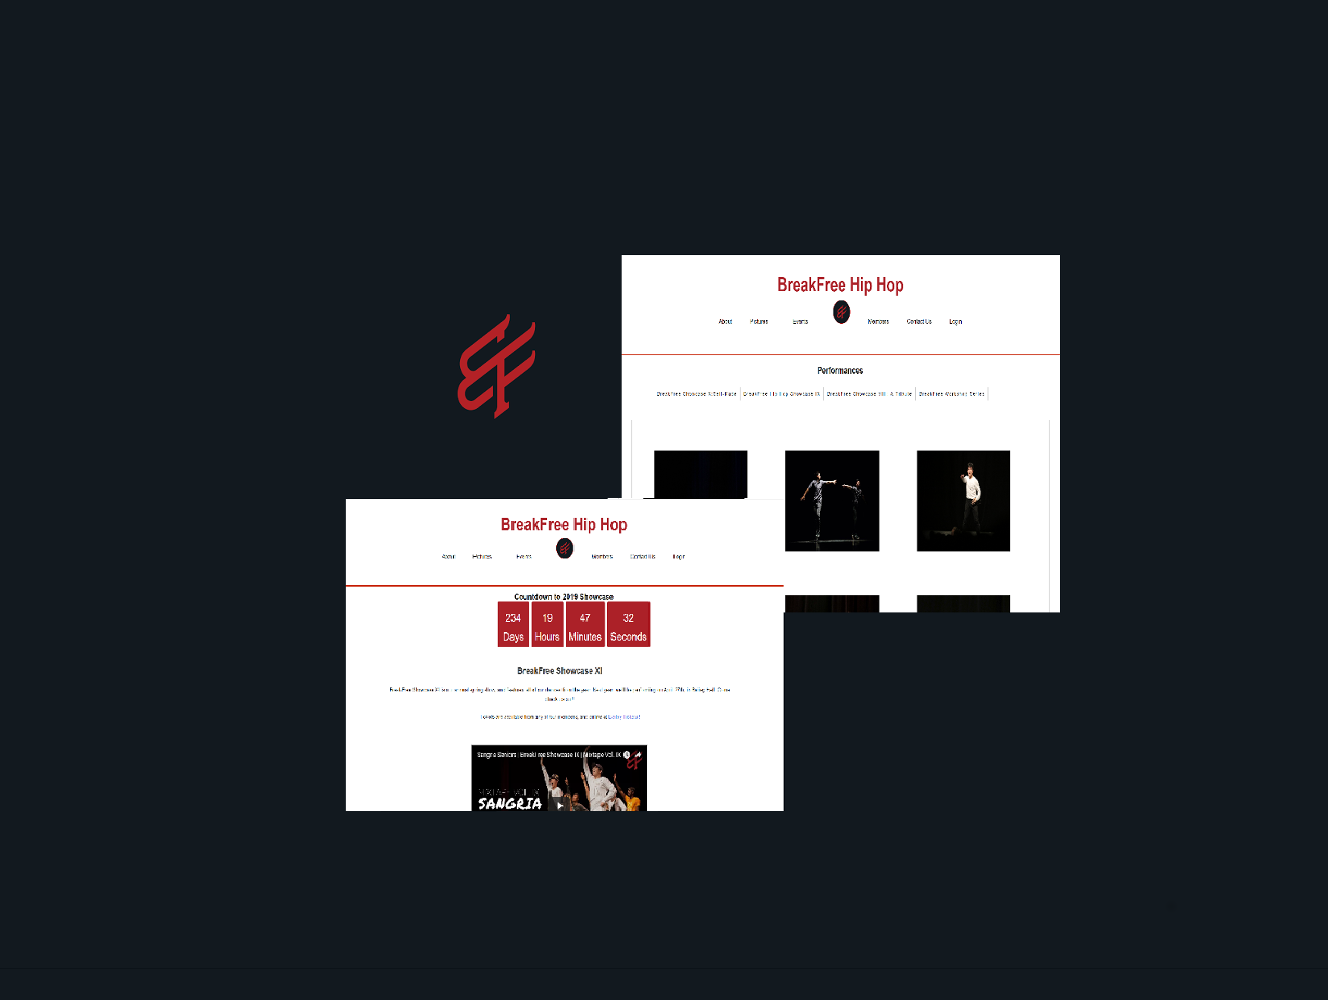
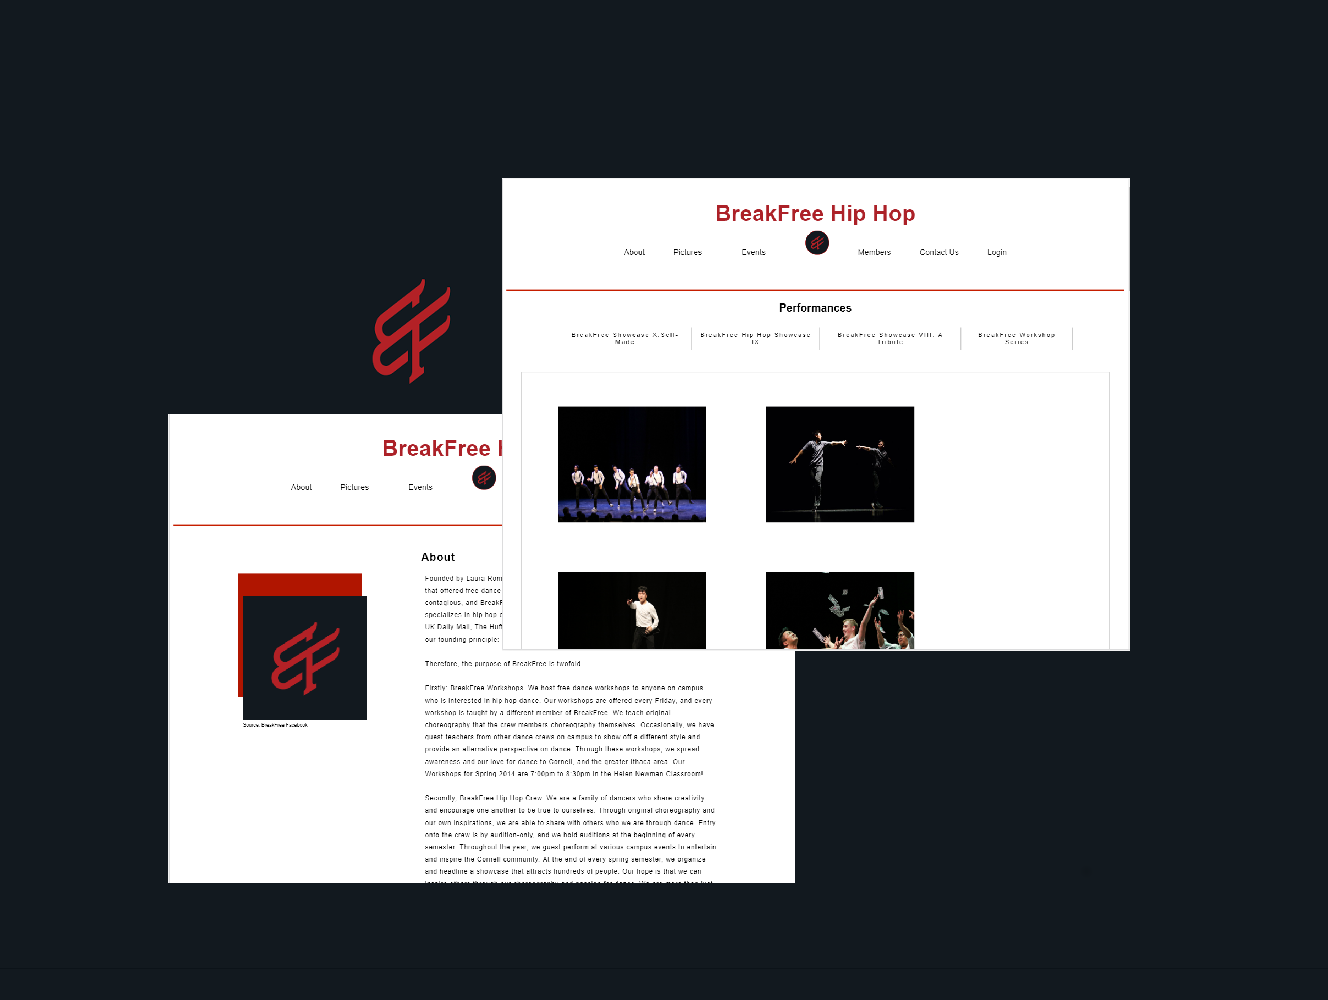
changes

Changed region(s): [[0.1235, 0.155, 0.8645, 0.899]]

diff --git a/bizbuzz.html b/bizbuzz.html
@@ -49,17 +49,21 @@
 								<strong>Timeline:</strong> September 2017- December 2017
 							</p>
 							<p>
-								<strong>Overview:</strong>
-
+								<strong>Overview:</strong> Local businesses in Ithaca wish to connect with others in the area for mentorship, collaboration, and companionship, but struggle to do so.
+								General disconnect among and lack of mentorship for local Ithaca businesses owners motivated us to create the platform for business owners and employees to connect in a meaningful and personal manner.
+								As a result, the app would: <br/> <br/>
+ 								- Help connect business owners in the local Ithaca community so they are able to share their experiences with each other. <br/>
+								-	Establish a platform that allows for increased efficiency in communication for local businesses. <br/>
+								-	Provide a forum for local business issues to be easily recognized and addressed by the community.
 							</p>
 							<section>
 								<header>
 									<h3>Problem</h3>
 								</header>
 								<p>
-                  Cornell students and Ithaca local businesses have experienced a growing divide filled with negative sentiments. Despite occupying the same small town,
-                  there seems to be little to no interaction between the two communities which is detrimental to both. Students tend to stay in their own
-                  bubble around campus and in Collegetown when local businesses such as store owners, restaurant owners, craftsmen and even farmers have so much to offer.
+	                Local businesses are a huge community within Ithaca but despite occupying the same small town,
+                  there seems to be little to no interaction between the businesses, which is detrimental to business opportunities and open communications. Local businesses such as store owners,
+									restaurant owners, craftsmen and even farmers have so much to offer, but lack a way to do so.
 								</p>
 							</section>
               <section>
@@ -68,18 +72,102 @@
                 </header>
                 <p>
                   To help us understand the points of the opportunity of intervention in the current state of how local businesses operate, we conducted interviews with local business owners
-                  and students and mapped out some key findings. From these findings, we realized that our target audiences were too wide and in order to make a more significant impact on our design,
-                  we had to narrow down our audience to only business owners.
-                <img class="image featured" src="images/bizbuzz_socialmodel.png" alt="" />
+                  and mapped out some key findings. From these findings, we found out main goals that local business owners are seeking from their business.
+                <img class="image featured" src="images/bizbuzz_affinity.png" alt="" />
               </section>
+							<section>
+                <header>
+                  <h3>Persona</h3>
+                </header>
+                <p>
+									Brenda is 35 years old, married and lives in Downtown, Ithaca. She co-owns a local Asian fusion restaurant along with her husband. They have been in this business for roughly 6 years now.
+									Although her area of expertise is Chinese cuisine, she loves cooking, experimenting with and learning new and different cuisines. Neither have any formal culinary or business education and most of their
+									expertise comes from experience and occasional inputs from friends and colleagues. Her husband and she take care of most of the aspects of their business on their own. Once in awhile during holidays and  festival season,
+									they find it necessary to hire a couple of temporary help. Although they are familiar with the use of technology, they don’t prefer it much since usually the learning curve is high and the value addition isn’t much.
 
-							<p>
-								Stay Tuned... <br/>
-								Full details on this project are on the way!
-							</p>
+									<br/><br/>
+									Behavior:<br/>
+									- Particular about food she serves<br/>
+									- Loves to talk with her customers and learn about their preferences
+									<br/><br/>
+									Goals:<br/>
+									- Improve work efficiency and saving money<br/>
+									- Hopes to communciate with other local businesses to collaborate<br/>
+									- Cater and adapt to customers' needs
+								</p>
+              </section>
+							<section>
+                <header>
+                  <h3>Ideation</h3>
+                </header>
+                <p>
+									We decided we wanted to create something that helped business owners engage with each other. This seemed like a large problem we heard about in our first round of user interviews.
+									When asked what stood out the most, everyone agreed on the combined ideas of bulk ordering and waste management. We wanted our design to allow for business owners to collaborate, as they said they wanted,
+									and we recognized that any collaboration tool would be more likely to be used if it had a profit motive attached to it. We also decided on creating a website as we wanted to reach all demographics of the business owners.
+									It was also said in the interview that business owners aren’t tech savvy. We used this to decide that a website would be more widely used. We then went into sketching a new design.
+								</p>
+								<img class="image featured" src="images/bizbuzz_draft.png" alt="" />
+								<p>Our first draft design included a chat section, a bulk order section, and a surplus section as the main features. Additionally, we included a preferred sellers section (to keep seller/supplier information in one section) and an analytics section that would should business owners how much money they have saved over time. All of these features combine to allow business owners to bulk order together, saving money, and give away their surplus of materials to each other, reducing waste and creating a collaborative community. Additionally, the chat feature will automatically show local businesses and their associated owners that are nearby, so that business owners can communicate and mentor each other.
+								</p>
+              </section>
+							<footer>
+								<a href="https://drive.google.com/a/cornell.edu/file/d/0B6L5AOxC-um4cWxRdTRhcGtCWEE/view?usp=sharing" class="button">Paper Prototype</a>
+							</footer>
+							<section>
+                <header>
+                  <h3>User Feedback</h3>
+                </header>
+                <p>
+									We conducted 3 user feedback interviews and these were our key findings:
+									<br/><br/>
+									- The bulk ordering and surplus features of our business coordination website do not address tangible needs to the user group. <br/>
+									- Businesses in the interviews, as a whole, liked the idea of mentorship between businesses. <br/>
+									- Businesses want to connect with who they want and about what they want in a quick and easy manner.
+								</p>
+              </section>
+							<section>
+                <header>
+                  <h3>Iteration</h3>
+                </header>
+                <p>
+									We designed our mid-fidelity prototype to be a website using Balsamiq. We named our website “BizConnect” in hopes of helping local businesses to build connections with each other and to get engaged within the local community. Since we believed that communication is the best way to build connections, we designed our prototype to be a platform that provides different channels for business conversations in various context. We made the design choice of adopting the most commonly-seen messenger interface to make our design more intuitive and user-friendly. While keeping the chat interface consistent across the different chat channels, we implemented three main features in this prototype to support the following three primary tasks:
+								</p>
+								<p>
+									- Chat Within
+								</p>
+								<img class="image featured" src="images/bizbuzz_b1.png" alt="" />
+								<p>
+									- Chat a Mentor
+								</p>
+								<img class="image featured" src="images/bizbuzz_b2.png" alt="" />
+								<p>
+									- Chat Locally
+								</p>
+								<img class="image featured" src="images/bizbuzz_b3.png" alt="" />
+              </section>
+							<section>
+                <header>
+                  <h3>Heuristic Evaluation</h3>
+                </header>
+                <p>
+									From our heuritstic evaluations, these were the biggest issues with out Balsamiq prototype.
+								</p>
+								<img class="image featured" src="images/bizbuzz_heuristic.png" alt="" />
+              </section>
+							<section>
+                <header>
+                  <h3>Final Iteration</h3>
+                </header>
+                <p>
+									From the Balsamiq prototype to the Invision prototype, we took into consideration our heuristic evaluations. More specifically, we focused mostly on the higher severity problems.
+									Furthermore, we focused on solutions that would help accomplish the main user tasks needed to highlight functionality for user evaluations. Another round of user testing was
+									done to evaluate our design. In total, many edits to the Invision prototype was done to create this final version.
+								</p>
+              </section>
               <footer>
 								<a href="https://projects.invisionapp.com/share/M9EBQ3F7A" class="button">Live Demo</a>
 							</footer>
+
 						</article>
 						<hr />
 						<!-- <div class="row">

diff --git a/elevate.html b/elevate.html
@@ -54,7 +54,7 @@
 								hospitality soution that deliver a frictionless or personalized experience or harness data and use products to
 								deliver meaningful solutions for guests. This prompted us to tailor travel directly at the customer’s preferences:
 								innovations that deliver personalization are priceless.
-
+								<br/><br/>
 								Since I was one of few designers on the team, I was able to touch almost every part of the product and have my designs realized and executed.
 								It was a really special experience working so closely with the team under a fixed time schedule and learning from the other designers to come
 								up with a final design concept that all of us were proud of.
@@ -64,9 +64,20 @@
 									<h3>Persona</h3>
 								</header>
 								<p>
-									Cathy is a student from San Francisco, California. She loves to travel. She’s never been to Vancouver, Canada but has always been interested in North American culture
- 									and has heard that Vancouver is one of the most beautiful cities. When she visits, she wants to learn to live like a Vancouverite and do what Vancouver people do everyday;
-									she wants to be fully immersed in Vancouver culture. She searched on Google and booked a Hilton hotel in Downtown Vancouver, the heart of Vancouver’s localities.
+									Cathy is a college student from San Francisco, California. She loves to travel. She’s never been to Vancouver, Canada but is deciding to visit there for the first time on vacation.
+									When she visits, she wants to be fully immersed in Vancouver culture, eat and see like the locals. She searched on Google and booked a Hilton hotel in Downtown Vancouver,
+									the heart of Vancouver’s localities.
+									<br/><br/>
+									Motivations/Interests:<br/>
+									- Likes to stay at Hilton Hotels because she is a Hilton Honors member<br/>
+									- Loves to travel to new places <br/>
+									- Adventurous and likes to try new things
+									<br/><br/>
+									Pain Points:<br/>
+									- Does not like to look like a tourist<br/>
+									- Quite shy<br/>
+									- Does not like to be unprepared for anything<br/>
+									- Indecisive when there are a lot of options
 								</p>
 							</section>
 							<section>
@@ -74,7 +85,7 @@
 									<h3>Problem</h3>
 								</header>
 								<p>
-									Many people that travel to new places want to be fully immersed in the local culture and live like a local, but cannot do that because: <br/>
+									Many people,like Cathy, who travel to new places, want to be fully immersed in the local culture and live like a local, but cannot do that because: <br/><br/>
 									1) They find it awkward to go up to local strangers. <br/>
 									2) Information on the internet usually has mixed reviews.
 								</p>
@@ -103,11 +114,11 @@
 								</header>
 								<p>
 									The goal of the calendar sync is for Hilton Honors app users to sync their Google Calendar or Microsoft Outlook Calendar to the app.
-									The HH app will filter out events according to the users' schedules. <br/>
+									The HH app will filter out events according to the users' schedules. <br/><br/>
 									- Guests can get access to all the events and highlights around the neighborhood that fit their schedules. <br/>
 									- Guests can click on specific events for pictures and details.
 								</p>
-								<img class="image featured" src="images/elevate_calendar.png" alt="" />
+								<img class="image featured" src="images/elevate_sketch_calendar.png" alt="" />
 								<header>
 									<h3>Idea 2: Hilton Honors Highlights + Recommendations</h3>
 								</header>
@@ -117,7 +128,7 @@
 									- Guests can find past and current experiences by other HH members. <br/>
 									- Guests cpersonalize their visit and share their experiences with others.
 								</p>
-								<img class="image featured" src="images/elevate_localhighlights.png" alt="" />
+								<img class="image featured" src="images/elevate_sketch_localhighlights.png" alt="" />
 							</section>
 							<section>
 								<header>
@@ -132,15 +143,56 @@
 								<header>
 									<h3>Final Iterations</h3>
 								</header>
+								<header>
+									<h3>Idea 1: Calendar Sync</h3>
+								</header>
 								<p>
-									From 6 user testings, we came up with some key findings.
+									Referencing the existing features in the Hilton Honors app, we created similar screens to allow users to sync their Google Calender or Microsoft Outlook calender to their account.
 								</p>
-								<img class="image featured" src="images/elevate_usertesting.png" alt="" />
+								<img class="image featured" src="images/elevate_calendar.png" alt="" />
+								<header>
+									<h3>Idea 2: Hilton Honors Highlights + Recommendations</h3>
+								</header>
+								<p>
+									We wanted an entry point that was personal and eyecatching to the user. We decided on a gold "H" placed on the bottom bar of the Hilton app. When clicked, a welcome page specific to the user
+									will pop up that will include the location that the user is in and surrounding weather conditions. We wanted the users to be fully immersed in our app so we included tabs such as Dining, Shopping, Highlights, Entertainment, and Attractions.
+								</p>
+								<img class="image featured" src="images/elevate_welcome.png" alt="" />
+								<p>
+									For our Local Highlights and reviews features, we wanted to make sure that users could not only reference one review but could also see multiple reviews at once as an overview.
+								</p>
+								<img class="image featured" src="images/elevate_localhighlights.png" alt="" />
 							</section>
-							<p>
-								Stay Tuned... <br/>
-								Full details on this project are on the way!
-							</p>
+
+							<section>
+								<header>
+									<h3>Final Iterations Flow</h3>
+								</header>
+								<header>
+									<h3>Personalized Dining Preferences --> Reviews</h3>
+								</header>
+								<p>
+									Option 1: View Reviews
+								</p>
+								<img class="image featured" src="images/elevate_flow1.png" alt="" />
+								<p>
+									Option 2: Add a Review
+								</p>
+								<img class="image featured" src="images/elevate_flow2.png" alt="" />
+								<header>
+									<h3>Local Highlights</h3>
+								<img class="image featured" src="images/elevate_flow3.png" alt="" />
+							</section>
+							<section>
+								<header>
+									<h3>Reflections</h3>
+								</header>
+								<p>
+									This hackathon challenge was fast paced, yet rewarding, allowing me to experience how much of an impact technology has on hospitality.
+									Being my first hackathon, I was proud that I could execute all steps of the user experience from research to user teseting to visual design and all under a restricted time frame.
+								</p>
+							</section>
+
 							<footer>
 								<a href="https://projects.invisionapp.com/share/P5DQQCAQ7#/screens/256096972" class="button">Live Demo</a>
 							</footer>

diff --git a/projects.html b/projects.html
@@ -33,7 +33,7 @@
 						<article id="main" class="special">
 							<header>
 								<h2>Projects and Experience</h2>
-								<p> Most of the projects I did during my studies </p>
+								<p> Some of the projects I did during my studies </p>
 							</header>
 
 							<section>
@@ -67,7 +67,7 @@
 										</p>
 									</div>
 									<div class="4u">
-										<a class="image featured1"><img src="images/elevate.png" alt="" /></a>
+										<a href="elevate.html" class="image featured1"><img src="images/elevate.png" alt="" /></a>
 									</div>
 								</div>
 							</section>
@@ -84,25 +84,7 @@
 										</p>
 									</div>
 									<div class="4u">
-										<a class="image featured1"><img src="images/bizbuzz.png" alt="" /></a>
-									</div>
-								</div>
-							</section>
-							<hr/>
-							<section>
-								<div class="row 60%">
-									<div class="7u">
-										<header>
-											<h3>Richard Yang Photography</h3>
-										</header>
-										<p>
-											I, with a team of 2 other coders, created a photography website for the client Richard Yang, who is starting out in photography and
-											has a strong social media presence but no website. The website will be a platform for all his current
-											and potential clients to view his work.
-										</p>
-									</div>
-									<div class="4u">
-										<a class="image featured1"><img src="images/richard_yang.PNG" alt="" /></a>
+										<a href="bizbuzz.html" class="image featured1"><img src="images/bizbuzz.png" alt="" /></a>
 									</div>
 								</div>
 							</section>
@@ -120,7 +102,7 @@
 										</p>
 									</div>
 									<div class="4u">
-										<a class="image featured1"><img src="images/breakfree.png" alt="" /></a>
+										<a href="breakfree.html" class="image featured1"><img src="images/breakfree.png" alt="" /></a>
 									</div>
 								</div>
 							</section>

diff --git a/sri_rice.html b/sri_rice.html
@@ -21,7 +21,7 @@
 						<div class="inner">
 							<header>
 								<h1><a href="#" id="logo">SRI-RICE</a></h1>
-								<h3>Website Design Strategy and Development</h3>
+								<h3>Website Redesign</h3>
 							</header>
 						</div>
 
@@ -46,7 +46,7 @@
 							<p>
 								<strong>Type:</strong> Redesigning SRI-RICE's website platform and visual appearance. <br/>
 								<strong>Role:</strong> UX/UI, Visual, Front-End<br/>
-								<strong>Timeline:</strong> October 2017 - Present
+								<strong>Timeline:</strong> May 2018 - Present
 							</p>
 							<p>
 								<strong>Overview:</strong> SRI-RICE is a agricultural sustainability website that contains the most comprehensive collection of information on the System of Rice Intensification globally.
@@ -85,6 +85,15 @@
 								</p>
                 <img class="image featured" src="images/sri_oldweb1.png" alt="" />
                 <img class="image featured" src="images/sri_oldweb2.png" alt="" />
+							</section>
+							<section>
+								<header>
+									<h3>Visuals and Rebranding</h3>
+								</header>
+								<p>
+									For the redesign, we drew inspirtation from the SRI logo to create our color theme for the page, while trying to modernize the look and feel of the webpage.
+								</p>
+                <img class="image featured" src="images/sri_color.png" alt="" />
 							</section>
 							<section>
 								<header>

diff --git a/breakfree.html b/breakfree.html
@@ -20,7 +20,7 @@
 					<!-- Inner -->
 						<div class="inner">
 							<header>
-								<h1><a href="#" id="logo">Richard Yang Photography</a></h1>
+								<h1><a href="#" id="logo">BreakFree</a></h1>
 								<h3>Website Design</h3>
 							</header>
 						</div>
@@ -42,11 +42,11 @@
 
 					<div class="container">
 						<article id="main" class="special">
-							<a href="#" class="image featured"><img src="images/richard_yang.PNG" alt="" /></a>
+							<a href="#" class="image featured"><img src="images/breakfree.png" alt="" /></a>
 							<p>
-								<strong>Type:</strong> Client work done for Richard Yang to create a personal photography website<br/>
+								<strong>Type:</strong> Client work done for BreakFree to create a website for their dances<br/>
 								<strong>Role:</strong> UX/UI, Visual, Front-End<br/>
-								<strong>Timeline:</strong> November 2017- December 2017
+								<strong>Timeline:</strong> March 2018- May 2018
 							</p>
 							<p>
 								<strong>Overview:</strong>
